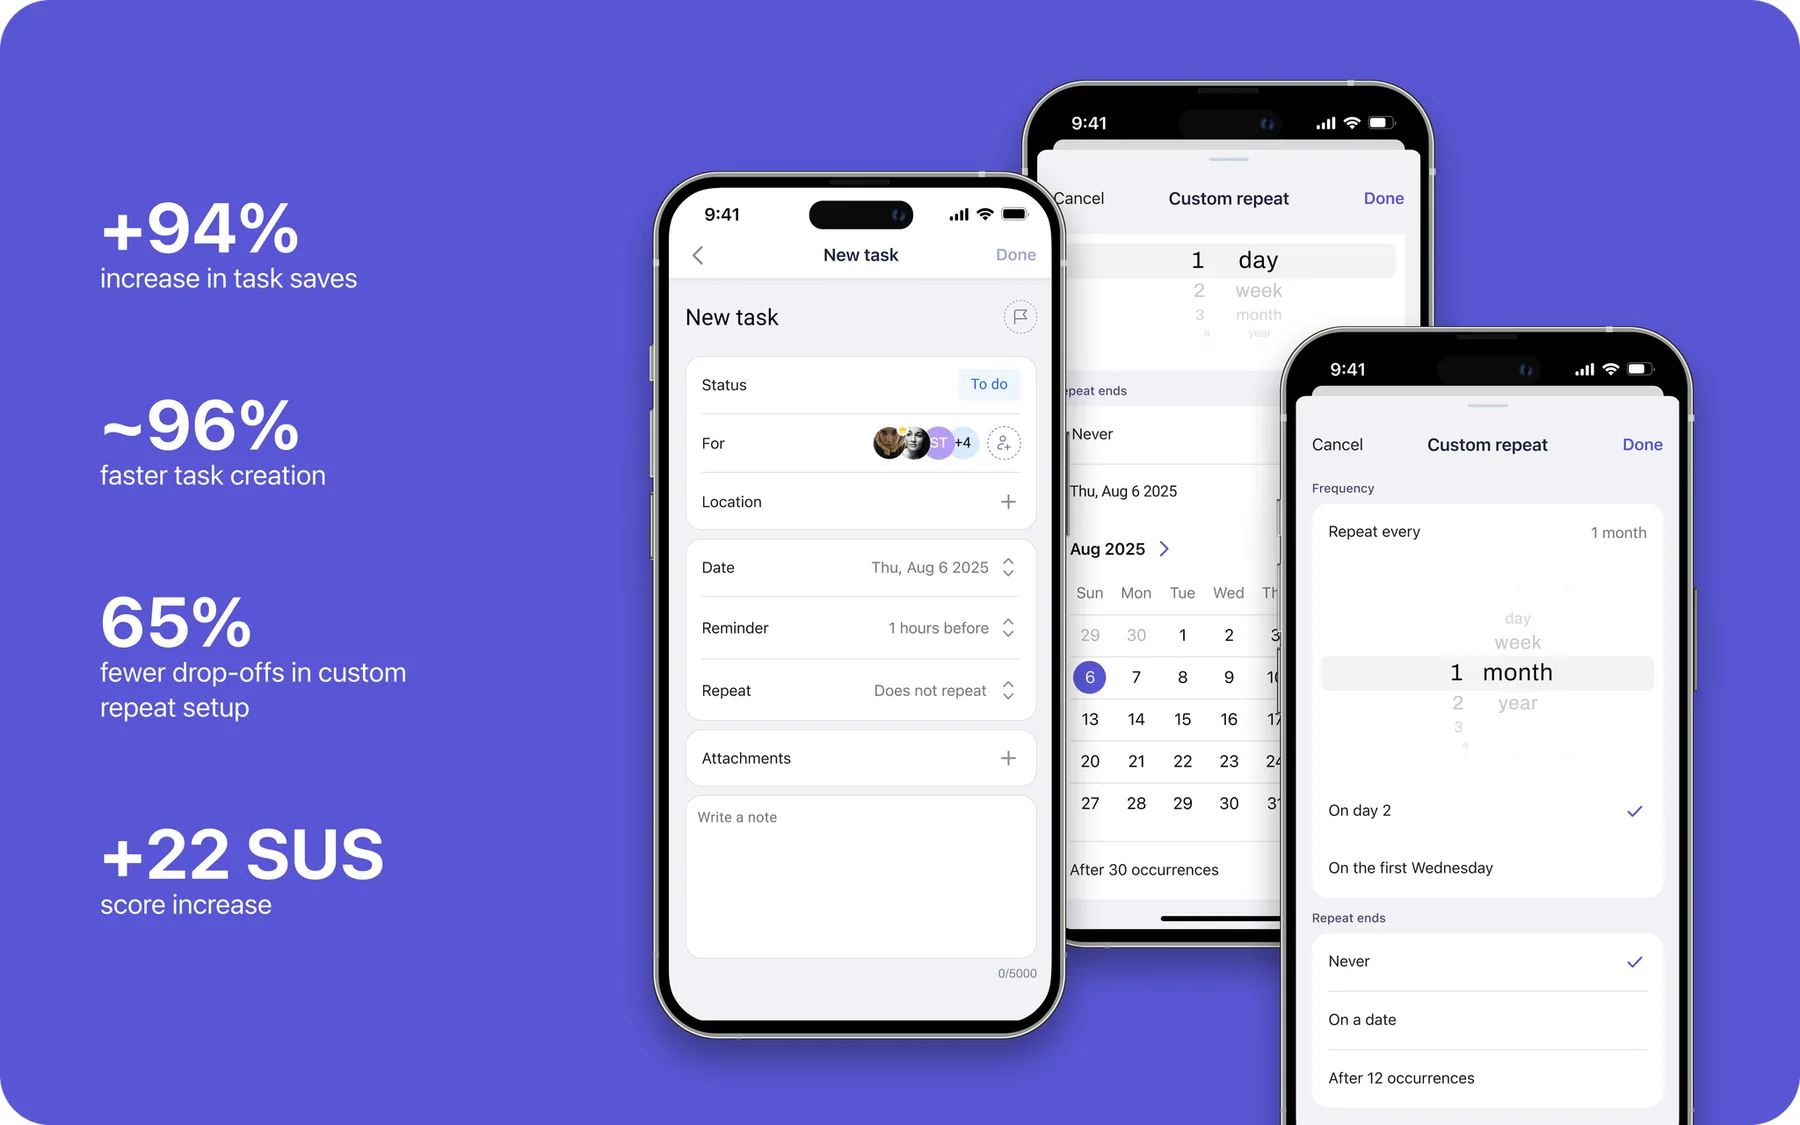
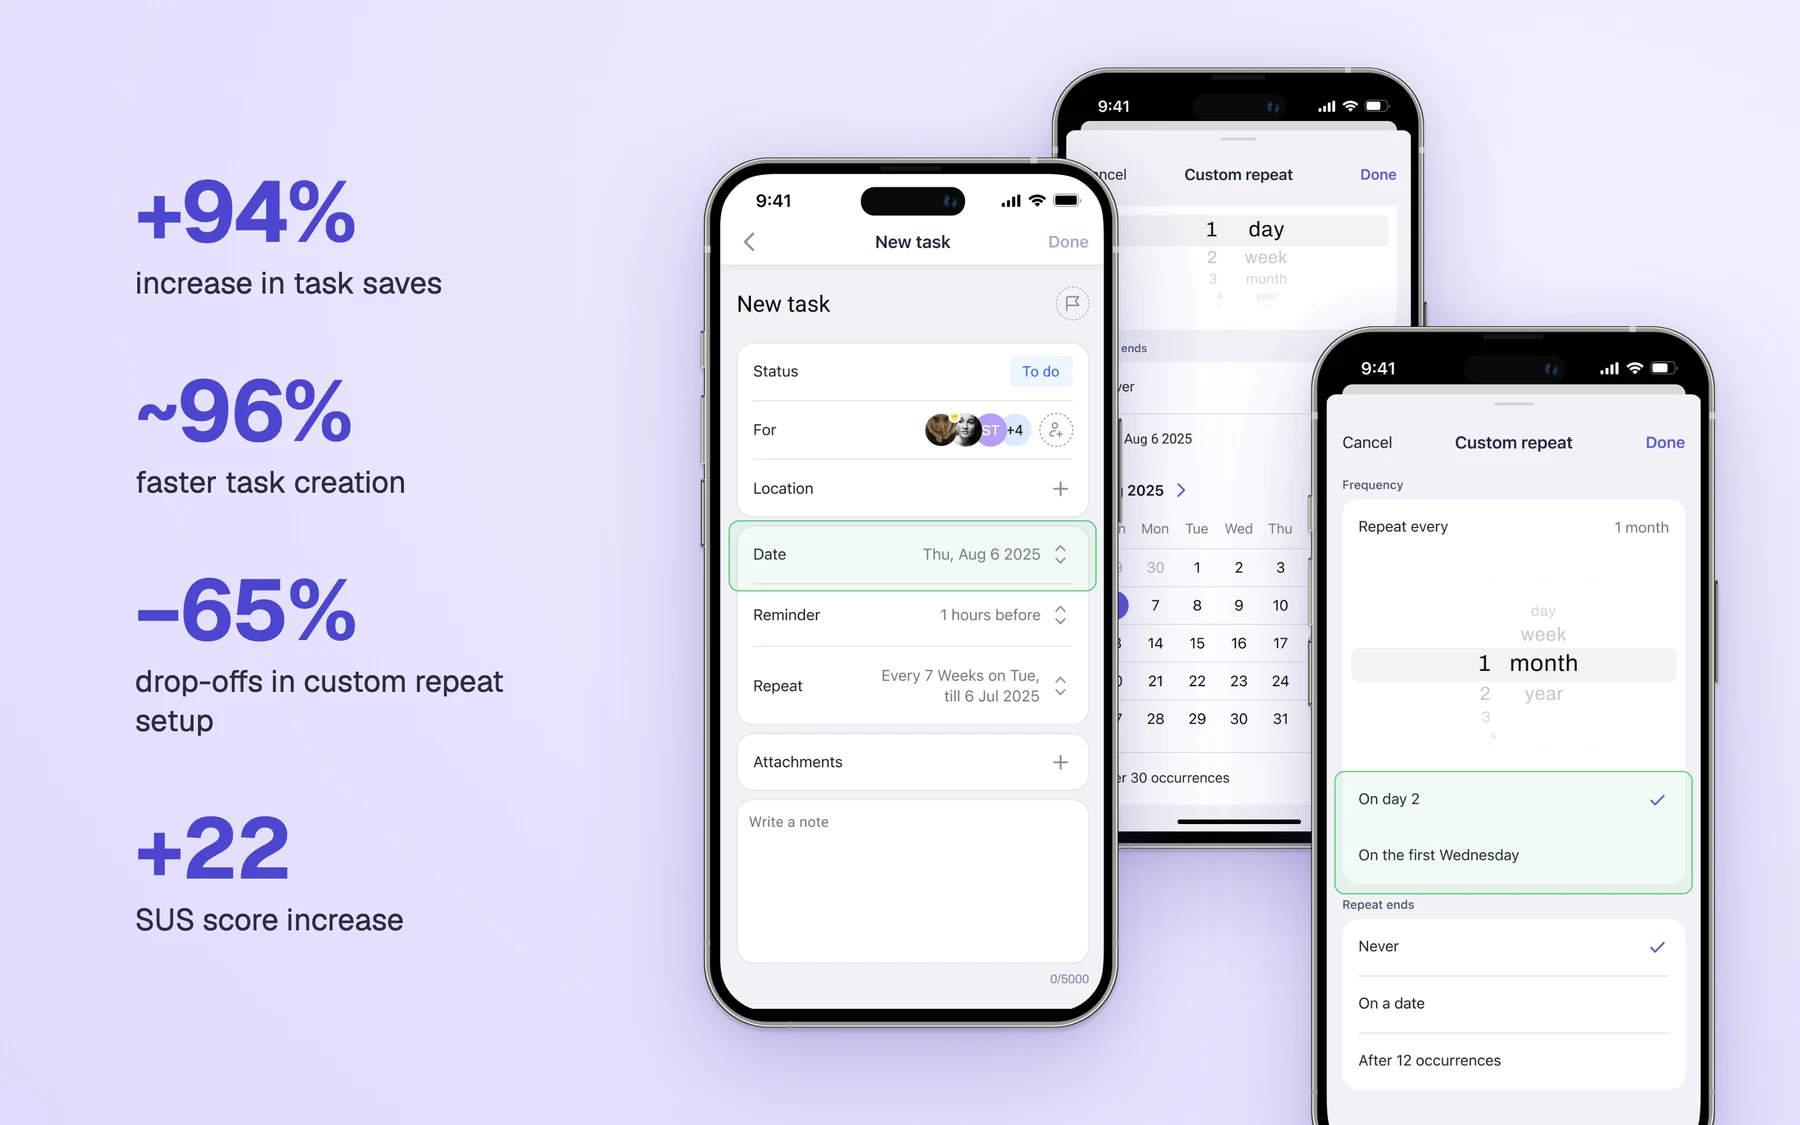
Task Creation: a calmer cover from the real screens, on light lavender (#35)

diff --git a/content/site.ts b/content/site.ts
@@ -290,7 +290,7 @@ export type MoreEntry = {
 };
 
 export const moreWork: MoreEntry[] = [
-  { slug: "task-creation", title: "Task Creation Reimagined", meta: "2025", cover: { src: "/work/task-creation/01.webp", width: 1800, height: 1125, alt: "The task creation flow, redesigned." } },
+  { slug: "task-creation", title: "Task Creation Reimagined", meta: "2025", cover: { src: "/work/task-creation/01.webp", width: 1800, height: 1125, alt: "The redesigned task form and custom repeat beside the results: +94% task saves, ~96% faster task creation, −65% drop-offs in custom repeat setup, +22 SUS." } },
   { slug: "onboarding-ab-testing", title: "Onboarding through Hypotheses & A/B Testing", meta: "2025 · concept", cover: { src: "/work/onboarding-ab-testing/01.webp", width: 1800, height: 910, alt: "Onboarding screens of a heart rate measurement app." } },
   { slug: "mental-health-mvp", title: "Mental health support MVP", meta: "2023", cover: { src: "/work/mental-health-mvp/01.webp", width: 1800, height: 1125, alt: "Screens of the mental health support app." } },
   { slug: "dnipro-education-center", title: "Dnipropetrovsk Regional Center for Educational Quality Assessment", meta: "2023 · UX audit and redesign", cover: { src: "/work/dnipro-education-center/01.webp", width: 1800, height: 1125, alt: "The DRCEQA website redesign." } },
